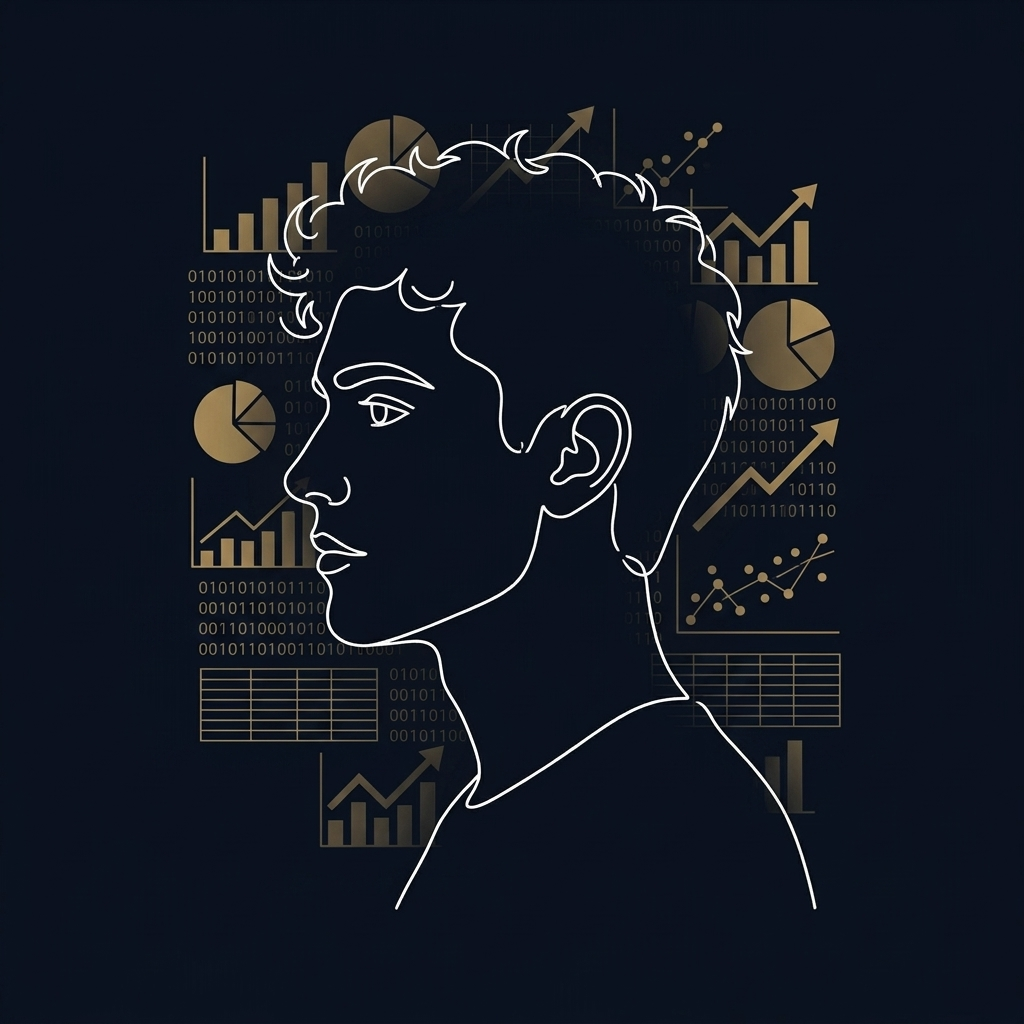
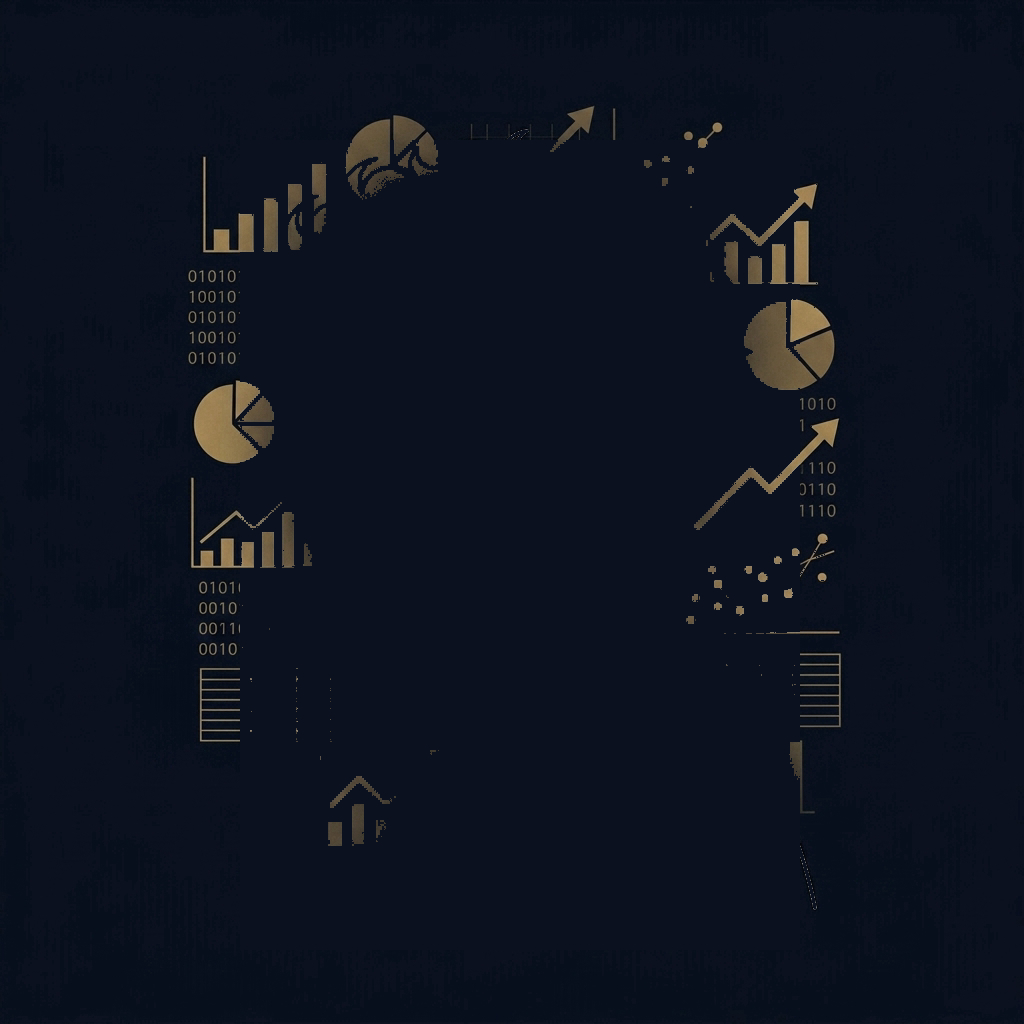
Actualizar hero: silueta original del usuario y remover marco circular

diff --git a/styles.css b/styles.css
@@ -460,11 +460,8 @@ a {
 
 .silhouette-composition {
   position: relative;
-  width: 420px;
-  height: 420px;
-  border-radius: 50%;
-  overflow: hidden;
-  background: radial-gradient(circle at 45% 45%, #151b30 0%, #0d1017 80%);
+  width: 440px;
+  height: 440px;
 }
 
 /* Capa de fondo: elementos de datos (gráficos, binario, etc.) */
@@ -473,11 +470,10 @@ a {
   inset: 0;
   width: 100%;
   height: 100%;
-  object-fit: cover;
-  border-radius: 50%;
-  opacity: 0.55;
+  object-fit: contain;
+  opacity: 0.95;
   z-index: 1;
-  mix-blend-mode: screen;
+  pointer-events: none;
 }
 
 /* Capa principal: silueta del usuario */
@@ -486,26 +482,8 @@ a {
   inset: 0;
   width: 100%;
   height: 100%;
-  object-fit: cover;
-  border-radius: 50%;
+  object-fit: contain;
   z-index: 2;
-  mix-blend-mode: lighten;
-}
-
-/* Borde sutil dorado */
-.silhouette-border {
-  position: absolute;
-  inset: -2px;
-  border-radius: 50%;
-  border: 1.5px solid rgba(201, 160, 99, 0.2);
-  z-index: 3;
-  pointer-events: none;
-  animation: glowPulse 4s ease-in-out infinite;
-}
-
-@keyframes glowPulse {
-  0%, 100% { box-shadow: 0 0 20px rgba(201, 160, 99, 0.05); }
-  50% { box-shadow: 0 0 40px rgba(201, 160, 99, 0.18); }
 }
 
 /* Scroll indicator */
@@ -926,8 +904,8 @@ a {
   }
 
   .silhouette-composition {
-    width: 260px;
-    height: 260px;
+    width: 320px;
+    height: 320px;
   }
 }
 
@@ -981,8 +959,8 @@ a {
   }
 
   .silhouette-composition {
-    width: 200px;
-    height: 200px;
+    width: 260px;
+    height: 260px;
   }
 
   .social-sidebar {

diff --git a/index.html b/index.html
@@ -86,11 +86,9 @@
     <div class="hero-image">
       <div class="silhouette-composition">
         <!-- Capa de fondo: elementos de datos -->
-        <img src="silhouette-bg.jpg" alt="" class="silhouette-data-bg" aria-hidden="true">
+        <img src="silhouette-bg.png" alt="" class="silhouette-data-bg" aria-hidden="true">
         <!-- Capa frontal: silueta original del usuario -->
-        <img src="silhouette.jpg" alt="Mayquel Bernaola" class="silhouette-main">
-        <!-- Borde sutil -->
-        <div class="silhouette-border"></div>
+        <img src="silhouette.png" alt="Mayquel Bernaola" class="silhouette-main">
       </div>
     </div>
   </div>
